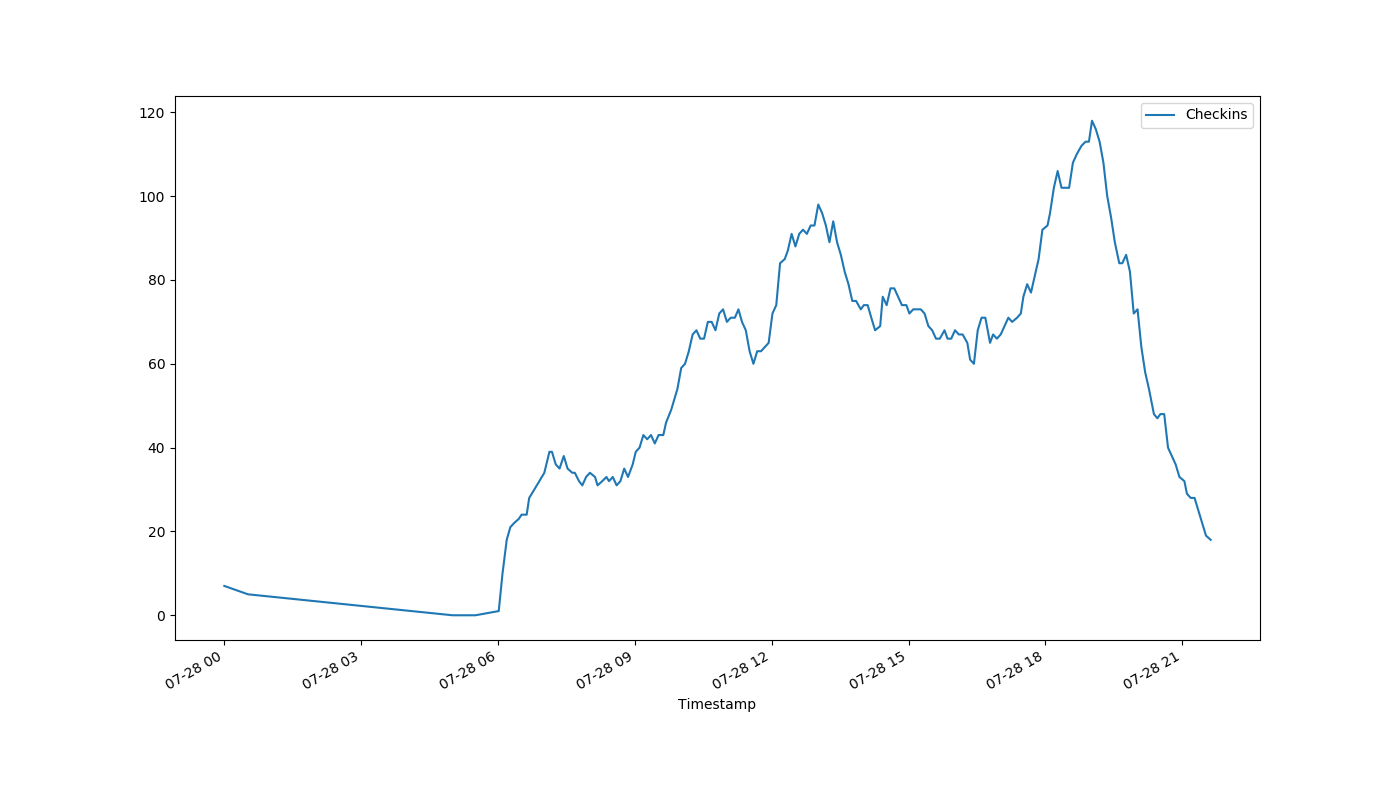
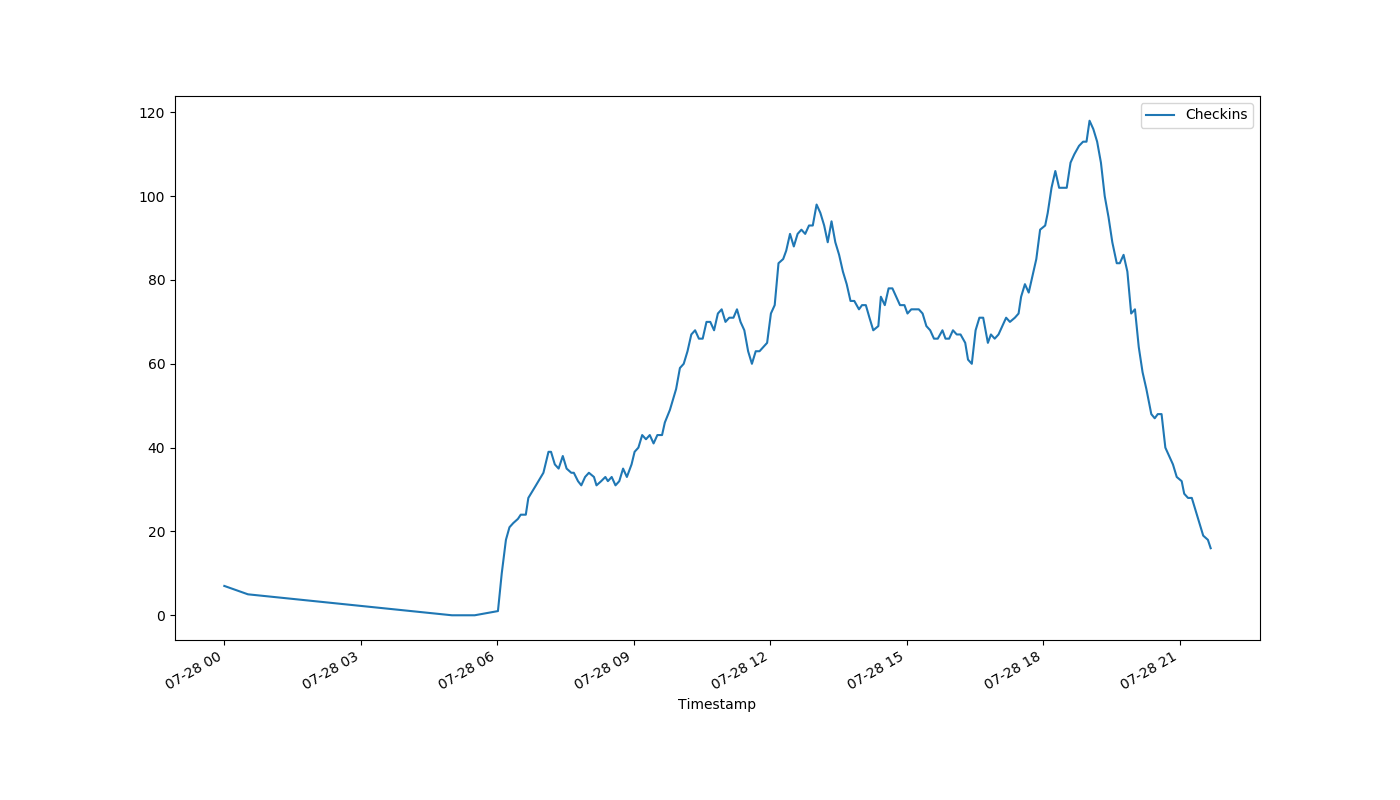
auto-Jul-28-21:42:01

diff --git a/index.html b/index.html
@@ -1,1 +1,1 @@
-<!DOCTYPE html><html><head><meta http-equiv="refresh" content="30"><link rel='stylesheet' href='holmcurrent.css'></head><body><p id='count'>18</p><div id='graph-wrap'><img id='graph' src='holmgraph-Jul-28.png'></div><p id='updated'>Last updated 21:38:04 / 21:37:23</p></body></html>
+<!DOCTYPE html><html><head><meta http-equiv="refresh" content="30"><link rel='stylesheet' href='holmcurrent.css'></head><body><p id='count'>16</p><div id='graph-wrap'><img id='graph' src='holmgraph-Jul-28.png'></div><p id='updated'>Last updated 21:41:05 / 21:41:03</p></body></html>
